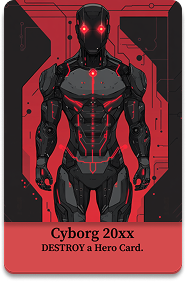
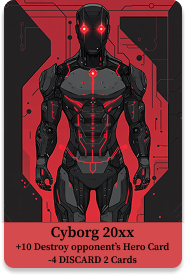
fixed bug with destroying opponents heroes, and added hero roll effect for lost soul

diff --git a/client/src/components/LocalGame.jsx b/client/src/components/LocalGame.jsx
@@ -31,7 +31,7 @@ const GameBoard = () => {
         { id: 3, image: DruidMask, type: "Item", affinity: "Druid" , min: 4, max: 10}, // Items and spells have no affinity
         { id: 4, image: DecoyDoll, type: "Item", affinity: null },
         { id: 5, image: CriticalBoost, type: "Spell", affinity: null },
-        { id: 6, image: LostSoul, type: "Hero", affinity: "Undead" , min: 0, max: 8},
+        { id: 6, image: LostSoul, type: "Hero", affinity: "Undead" , min: 0, max: 6},
         { id: 7, image: Bullseye, type: "Hero", affinity: "Consort" , min: 0, max: 4},
         { id: 8, image: Hydra, type: "Hero", affinity: "Serpentine" , min: 0, max: 0},
         { id: 9, image: Cyborg20xx, type: "Hero", affinity: "Future", min: 5, max: 7},
@@ -39,7 +39,6 @@ const GameBoard = () => {
         { id: 11, image: MAD, type: "Spell"},
     ];
     // State Variables
-
     const handleMouseEnter = (card, slotIndex) => {
         if (card) {
             setHoveredCard({ card, slotIndex });
@@ -82,18 +81,10 @@ const GameBoard = () => {
         
         const currentActionPoints = currentPlayer === 1 ? player1ActionPoints : player2ActionPoints;
         const setCurrentActionPoints = currentPlayer === 1 ? setPlayer1ActionPoints : setPlayer2ActionPoints;
+        const currentPlayedCards = currentPlayer === 1 ? playedCards1 : playedCards2;
+        const setCurrentPlayedCards = currentPlayer === 1 ? setPlayedCards1 : setPlayedCards2;
         
         // Perform hero-specific effect
-        performHeroEffect(card, slotIndex);
-
-        setCurrentActionPoints(prev => prev - 1);
-        
-        if (currentActionPoints - 1 === 0) {
-            switchTurn();
-        }
-    };
-    
-    const performHeroEffect = (card, slotIndex) => {
         const roll1 = Math.floor(Math.random() * 6) + 1;
         const roll2 = Math.floor(Math.random() * 6) + 1;
         
@@ -102,17 +93,53 @@ const GameBoard = () => {
         // Calculate total roll
         const totalRoll = roll1 + roll2;
         
-        // Check if roll is within card's min/max range (if defined)
-        if (card.min !== undefined && card.max !== undefined) {
-            if (totalRoll < card.min) {
-                alert(`${card.type} ${card.id} rolled ${totalRoll} (${roll1}+${roll2}) - Below minimum power!`);
-            } else if (totalRoll > card.max) {
-                alert(`${card.type} ${card.id} rolled ${totalRoll} (${roll1}+${roll2}) - Above maximum power!`);
-            } else {
-                alert(`${card.type} ${card.id} rolled ${totalRoll} (${roll1}+${roll2}) - Within power range!`);
-            }
-        } else {
-            alert(`${card.type} ${card.id} rolled ${totalRoll} (${roll1}+${roll2})`);
+        switch(card.id) {
+            case 1: // Moose Druid
+                if (totalRoll >= card.max) {
+                    activateDestroyMode();
+                    return;
+                }
+                else if (totalRoll <= card.min) {
+                    // Self-destruct this hero
+                    setDiscardPile(prev => [...prev, card]);
+                    setCurrentPlayedCards(prev => {
+                        const newPlayed = [...prev];
+                        newPlayed[slotIndex] = null;
+                        return newPlayed;
+                    });
+                }
+                else {
+                    alert(`${totalRoll} - Normal roll`);
+                }
+                break;
+            case 6:
+                if (totalRoll >= card.max) {
+                    drawFromDiscard()
+                }
+                break;
+            case 9: // Cyborg 20xx
+                if (totalRoll >= card.max) {
+                    activateDestroyMode();
+                    return;
+                }
+                else if (totalRoll <= card.min) {
+                    discardCard();
+                    discardCard();
+                    alert("Critical failure! Discarded 2 cards.");
+                }
+                else {
+                    alert(`${totalRoll} - Normal roll`);
+                }
+                break;
+            default:
+                alert(`${totalRoll} - Normal roll`);
+                break;
+        }
+        
+        setCurrentActionPoints(prev => prev - 1);
+    
+        if (currentActionPoints - 1 === 0) {
+            switchTurn();
         }
     };
     const castSpell = (spellCard) => {
@@ -150,6 +177,7 @@ const GameBoard = () => {
                     discardCard();
                     discardCard();
                     activateDestroyMode();
+                    return;
                 }
                 else {
                     return;
@@ -173,7 +201,9 @@ const GameBoard = () => {
     };
     
     // Function to check action points and switch turn if necessary
-    function checkActionPoints () {
+    function checkActionPoints() {
+        if (destroyMode) return true; // Skip turn switching while in destroy mode
+        
         const currentActionPoints = currentPlayer === 1 ? player1ActionPoints : player2ActionPoints;
         if (currentActionPoints <= 0) {
             switchTurn();
@@ -190,11 +220,11 @@ const GameBoard = () => {
                 const affinities = playedCards.map((card) => {
                     // Check if the card has an equipped item with a different affinity
                     if (card.items && card.items.length > 0 && card.items[0].affinity) {
+                        clearInterval(intervalId);
                         return card.items[0].affinity; // Use item's affinity if it exists
                     }
                     return card.affinity; // Otherwise use hero's affinity
                 });
-                clearInterval(intervalId);
                 const uniqueAffinities = new Set(affinities);
                 return uniqueAffinities.size === 5; // Check if all affinities are unique
             }
@@ -406,13 +436,18 @@ const GameBoard = () => {
     };
 
     const activateDestroyMode = () => {
-        if (!checkActionPoints()) return;
+        if (!hasHero) {
+            alert("Opponent has no Hero cards to destroy!");
+            return;
+        }
         setDestroyMode(true);
     };
 
     const destroyOpponentHero = (slotIndex) => {
         const opponentPlayedCards = currentPlayer === 1 ? playedCards2 : playedCards1;
         const setOpponentPlayedCards = currentPlayer === 1 ? setPlayedCards2 : setPlayedCards1;
+        const setCurrentActionPoints = currentPlayer === 1 ? setPlayer1ActionPoints : setPlayer2ActionPoints;
+        const currentActionPoints = currentPlayer === 1 ? player1ActionPoints : player2ActionPoints;
     
         // Check if the selected slot has a hero card
         if (!opponentPlayedCards[slotIndex] || opponentPlayedCards[slotIndex].type !== "Hero") {
@@ -423,7 +458,7 @@ const GameBoard = () => {
         const heroCard = opponentPlayedCards[slotIndex];
         
         // Check if hero has a Decoy Doll equipped
-        const hasDecoyDoll = heroCard.items?.some(item => item.id === 4); // Decoy Doll has id 4
+        const hasDecoyDoll = heroCard.items?.some(item => item.id === 4);
     
         if (hasDecoyDoll) {
             // Remove the Decoy Doll instead of the hero
@@ -431,7 +466,7 @@ const GameBoard = () => {
                 const newPlayed = [...prev];
                 newPlayed[slotIndex] = {
                     ...newPlayed[slotIndex],
-                    items: newPlayed[slotIndex].items.filter(item => item.id !== 4) // Remove Decoy Doll
+                    items: newPlayed[slotIndex].items.filter(item => item.id !== 4)
                 };
                 return newPlayed;
             });
@@ -452,7 +487,47 @@ const GameBoard = () => {
                 return newPlayed;
             });
         }
+        
+        // Deduct action point only after successful destruction
+        setCurrentActionPoints(prev => prev - 1);
+        
         setDestroyMode(false);
+        
+        // Check if this was the last action point
+        if (currentActionPoints - 1 <= 0) {
+            switchTurn();
+        }
+    };
+    const drawFromDiscard = () => {
+        
+        const currentHand = currentPlayer === 1 ? player1Hand : player2Hand;
+        const setCurrentHand = currentPlayer === 1 ? setPlayer1Hand : setPlayer2Hand;
+    
+        // Check if discard pile is empty
+        if (discardPile.length === 0) {
+            alert("Discard pile is empty!");
+            return;
+        }
+    
+        // Check if hand is full
+        if (currentHand.length >= 8) {
+            alert("Your hand is full (max 8 cards)!");
+            return;
+        }
+    
+        // Get last discarded card
+        const lastDiscarded = discardPile[discardPile.length - 1];
+        
+        // Add to player's hand with new unique ID
+        const drawnCard = {
+            ...lastDiscarded,
+            uniqueId: Date.now() // Assign new unique ID
+        };
+    
+        // Update state
+        setCurrentHand(prev => [...prev, drawnCard]);
+        setDiscardPile(prev => prev.slice(0, -1)); // Remove from discard pile
+
     };
     const swapItems = () => {
         if (selectedOwnHero === null || selectedOpponentHero === null) {
